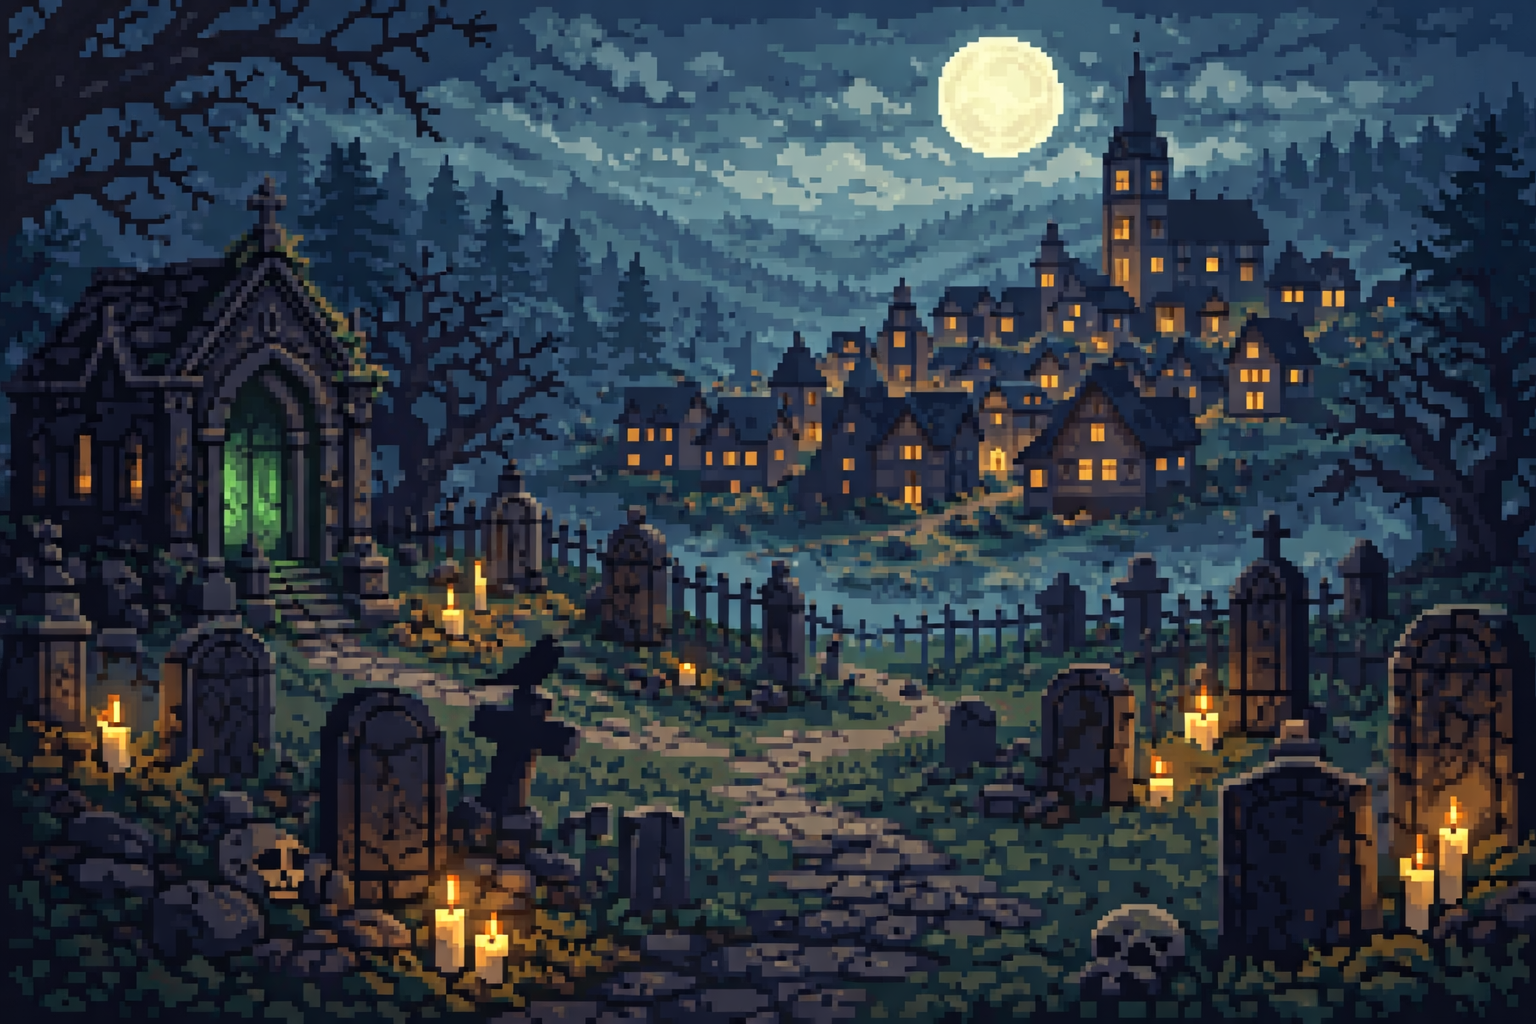
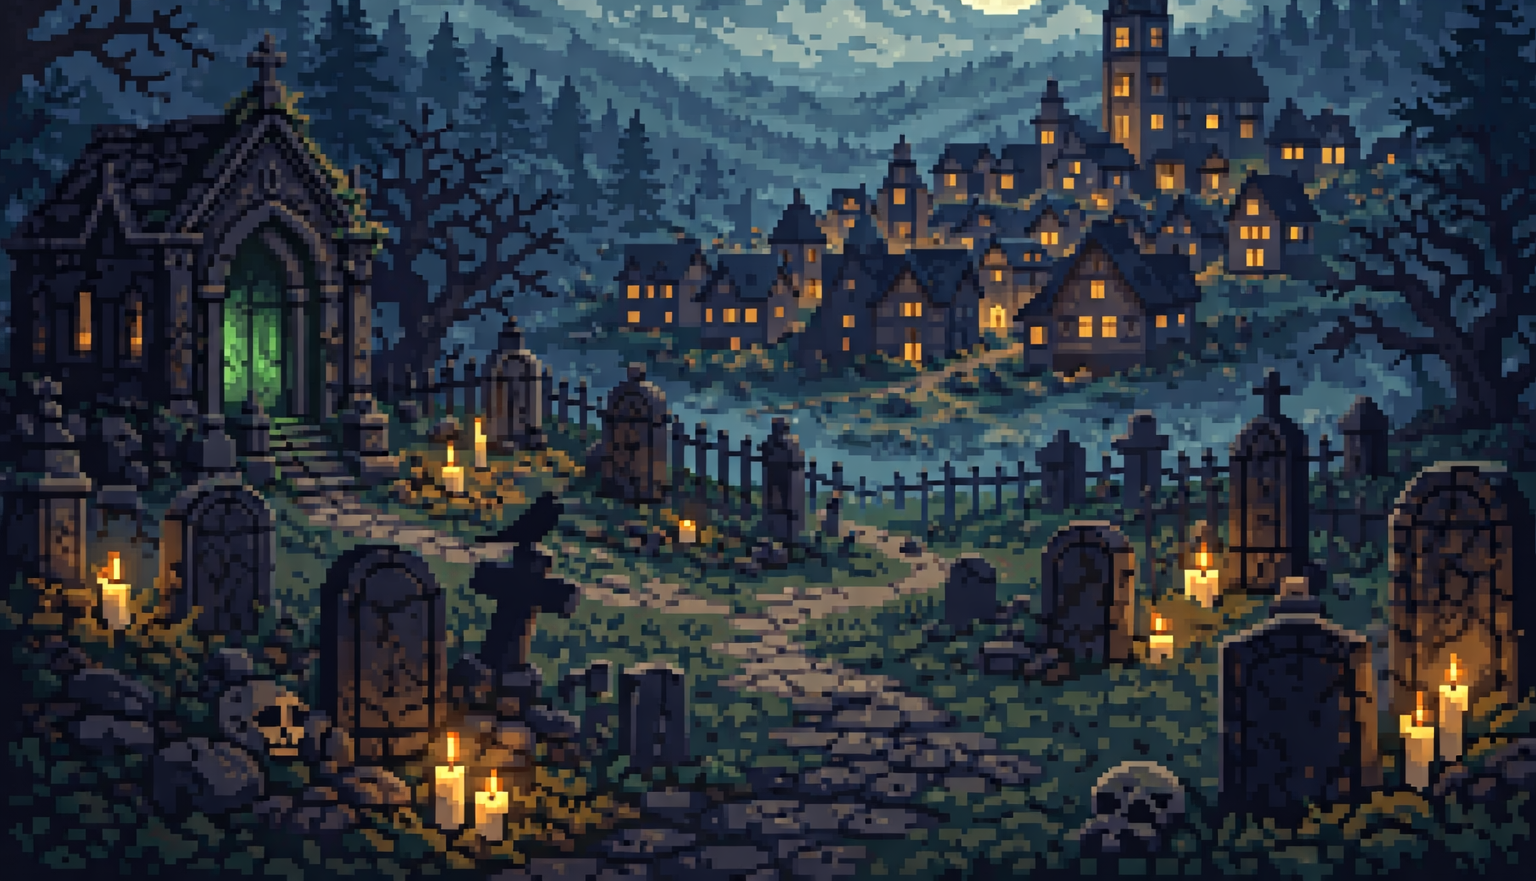
tonterias

diff --git a/public/resources/styles/game.css b/public/resources/styles/game.css
@@ -380,7 +380,7 @@ li{
     background-color: rgba(0, 0, 0, 0.3);
     border-radius: 0.5rem;
     padding: 1rem 1.5rem;
-    min-height: 4rem;
+    height: 4rem;
 }
 
 #tutorial-fantasma-nombre {
